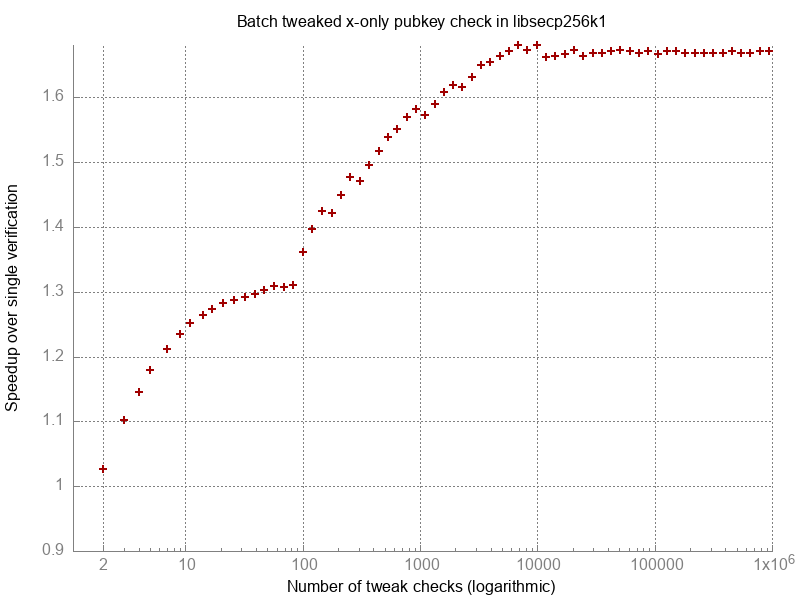
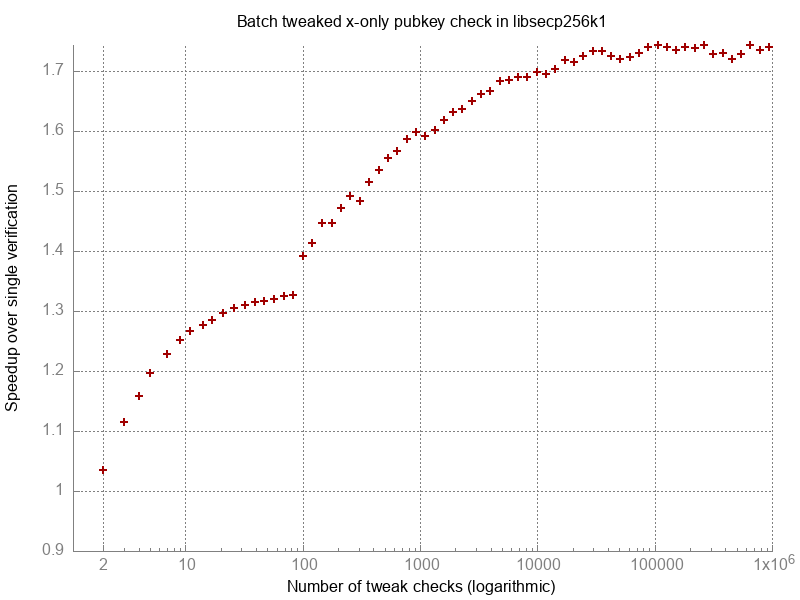
generate graphs with 16MB mem_limit

diff --git a/src/modules/extrakeys/bench_impl.h b/src/modules/extrakeys/bench_impl.h
@@ -63,7 +63,7 @@ static void run_extrakeys_bench(int iters, int argc, char** argv) {
     data.tweaked_pk_parities = (const int **)malloc(iters * sizeof(int *));
     data.tweaks = (const unsigned char **)malloc(iters * sizeof(unsigned char *));
 #ifdef ENABLE_MODULE_BATCH
-    data.batch = secp256k1_batch_create(data.ctx, 4 * 1024 * 1024, NULL);
+    data.batch = secp256k1_batch_create(data.ctx, 16 * 1024 * 1024, NULL);
     CHECK(data.batch != NULL);
 #endif
 

diff --git a/src/modules/schnorrsig/bench_impl.h b/src/modules/schnorrsig/bench_impl.h
@@ -81,7 +81,7 @@ static void run_schnorrsig_bench(int iters, int argc, char** argv) {
     data.msgs = malloc(iters * sizeof(unsigned char *));
     data.sigs = malloc(iters * sizeof(unsigned char *));
 #ifdef ENABLE_MODULE_BATCH
-    data.batch = secp256k1_batch_create(data.ctx, 4 * 1024 * 1024, NULL);
+    data.batch = secp256k1_batch_create(data.ctx, 16 * 1024 * 1024, NULL);
     CHECK(data.batch != NULL);
 #endif
 
